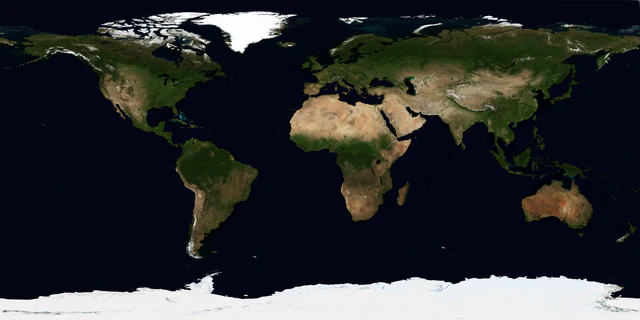
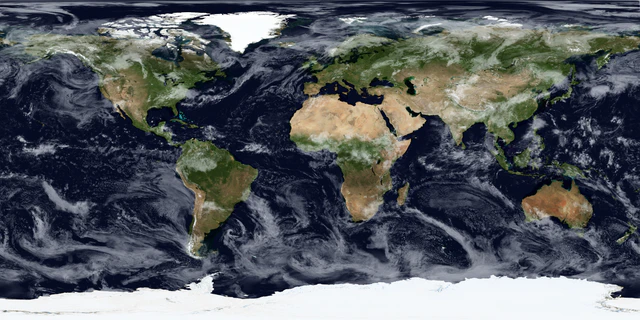
fix(earth): keep the committed minimaps the current recipe cannot reproduce

diff --git a/src/planets/earth/README.md b/src/planets/earth/README.md
@@ -61,6 +61,11 @@ The linked reports identify their tested sources, prepared files and limitations
   Waiting for application readiness and rebuilding the renderer did not resolve
   it. The cause is not established; native-source preparation does not fix this
   runtime behavior. Whole-globe display passed the focused visual check.
+- **Minimaps, observed 12 September 2026:** the current recipe makes the same
+  minimap for the normal and cloud lenses. Native photographic sampling hands
+  the preview the unprocessed Blue Marble grid, without the cloud composite or
+  the 1.25 display gamma. The committed normal and cloud minimaps come from the
+  earlier recipe, so they do not reproduce from this one.
 
 Named features: Earth has no IAU nomenclature, so its labels come from Natural Earth 1:10m vectors (public domain, retrieved 2026-09-12) pinned under `source/features/`: populated places ranked by population, geographic region points and areas, marine areas and river centrelines. Places are unsized points; regions and seas trace their bounding box; rivers trace their centreline. Anchors are cast onto the rendered ellipsoid through the paged lane's own surface sampler (`tools/objects/surface-features/ellipsoid.ts`), and the runtime parser checks every anchor against the ellipsoid band recorded in the plan. Natural Earth's names, ranks and geometry are its editors' choices, not an official gazetteer.
 
